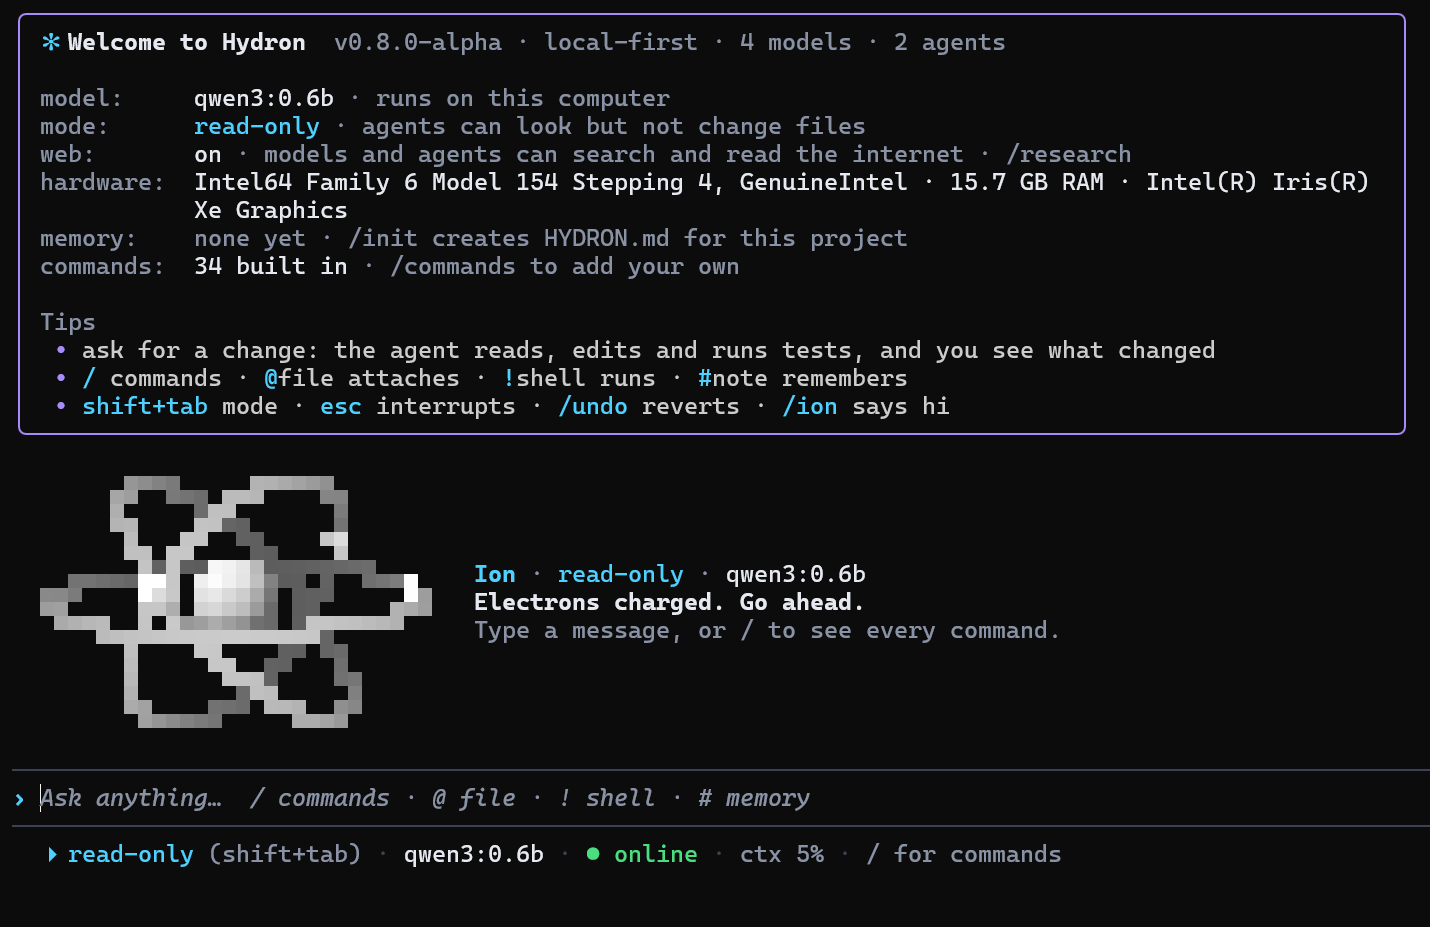
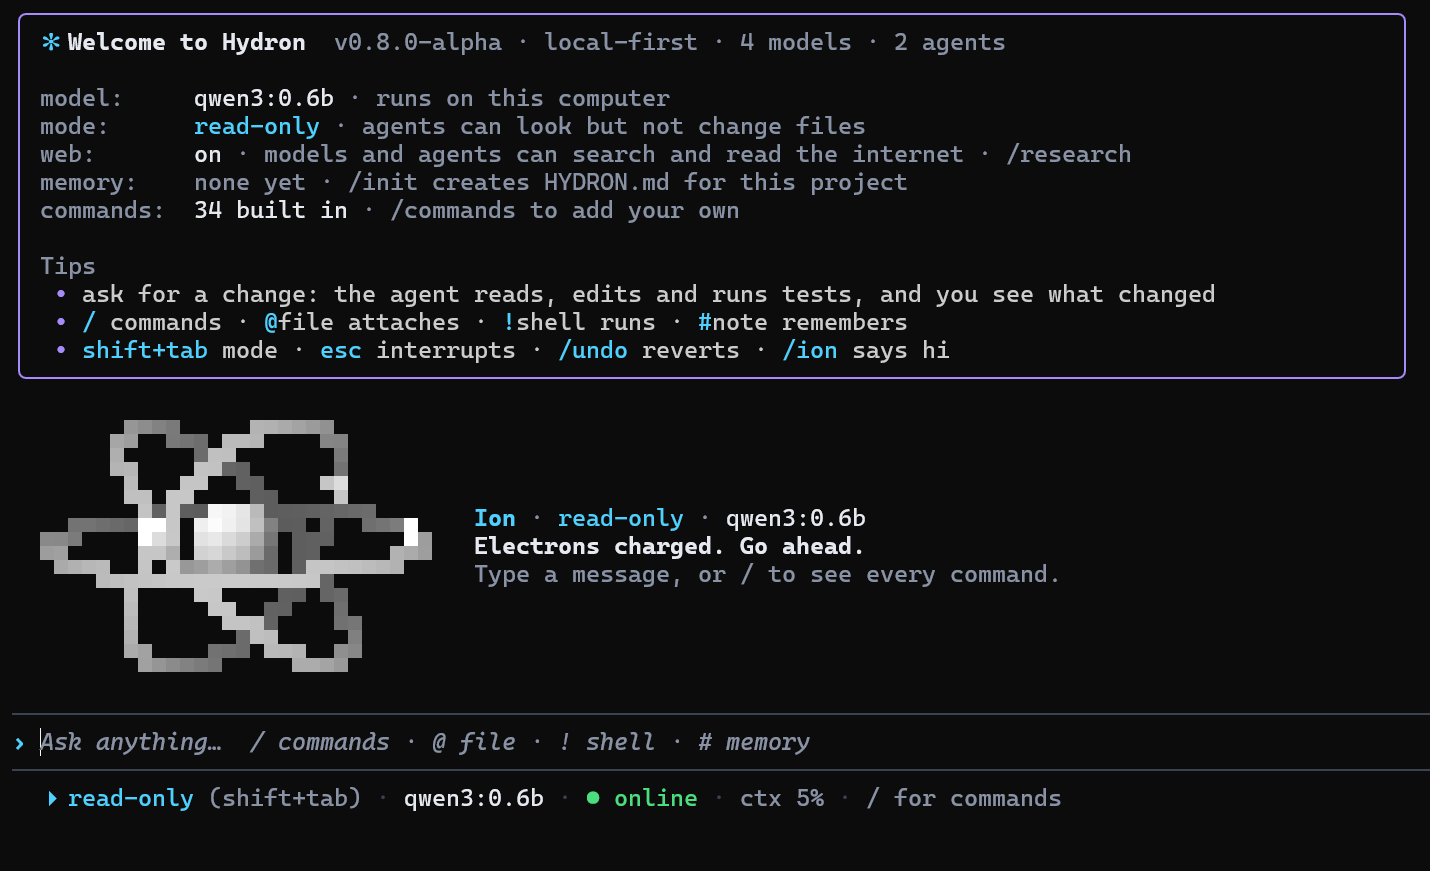
Remove hardware details from CLI screenshot; describe Ion as the mascot
Claude-Session: https://claude.ai/code/session_018qBfZMS91rYwB9GFuJ8y4J

diff --git a/features.html b/features.html
@@ -96,10 +96,10 @@
       <div class="feature-copy">
         <span class="eyebrow">Terminal agent</span>
         <h3>A coding agent in your terminal.</h3>
-        <p>Type <code>hydron</code> to start Ion, Hydron's command-line agent, running on a local model. Ask for a change and it reads, edits, and runs tests, then shows you what changed.</p>
+        <p>Type <code>hydron</code> in any shell to start a coding agent that runs on a local model — greeted by Ion, Hydron's pixel-atom mascot. Ask for a change and the agent reads, edits, and runs tests, then shows you what changed.</p>
         <ul class="checklist"><li>Starts read-only; press Shift+Tab to change mode</li><li><code>/undo</code> reverts, Esc interrupts</li><li><code>/init</code> creates a HYDRON.md memory file for your project</li></ul>
       </div>
-      <div class="frame natural"><img src="assets/hydron-cli.png" alt="Hydron command-line agent welcome screen" width="1430" height="927" loading="lazy"></div>
+      <div class="frame natural"><img src="assets/hydron-cli.png" alt="Hydron command-line agent welcome screen" width="1430" height="871" loading="lazy"></div>
     </div>
   </div>
 </section>

diff --git a/index.html b/index.html
@@ -98,7 +98,7 @@
         </div>
         <div class="cmd"><code id="cmd-output">hydron pull gemma3:4b</code><button class="copy-btn" data-copy="cmd-output">Copy</button></div>
       </div>
-      <div class="frame natural"><img src="assets/hydron-cli.png" alt="Hydron command-line agent welcome screen showing model, read-only mode, and tips" width="1430" height="927" loading="lazy"></div>
+      <div class="frame natural"><img src="assets/hydron-cli.png" alt="Hydron command-line agent welcome screen showing model, read-only mode, and tips" width="1430" height="871" loading="lazy"></div>
     </div>
   </div>
 </section>
